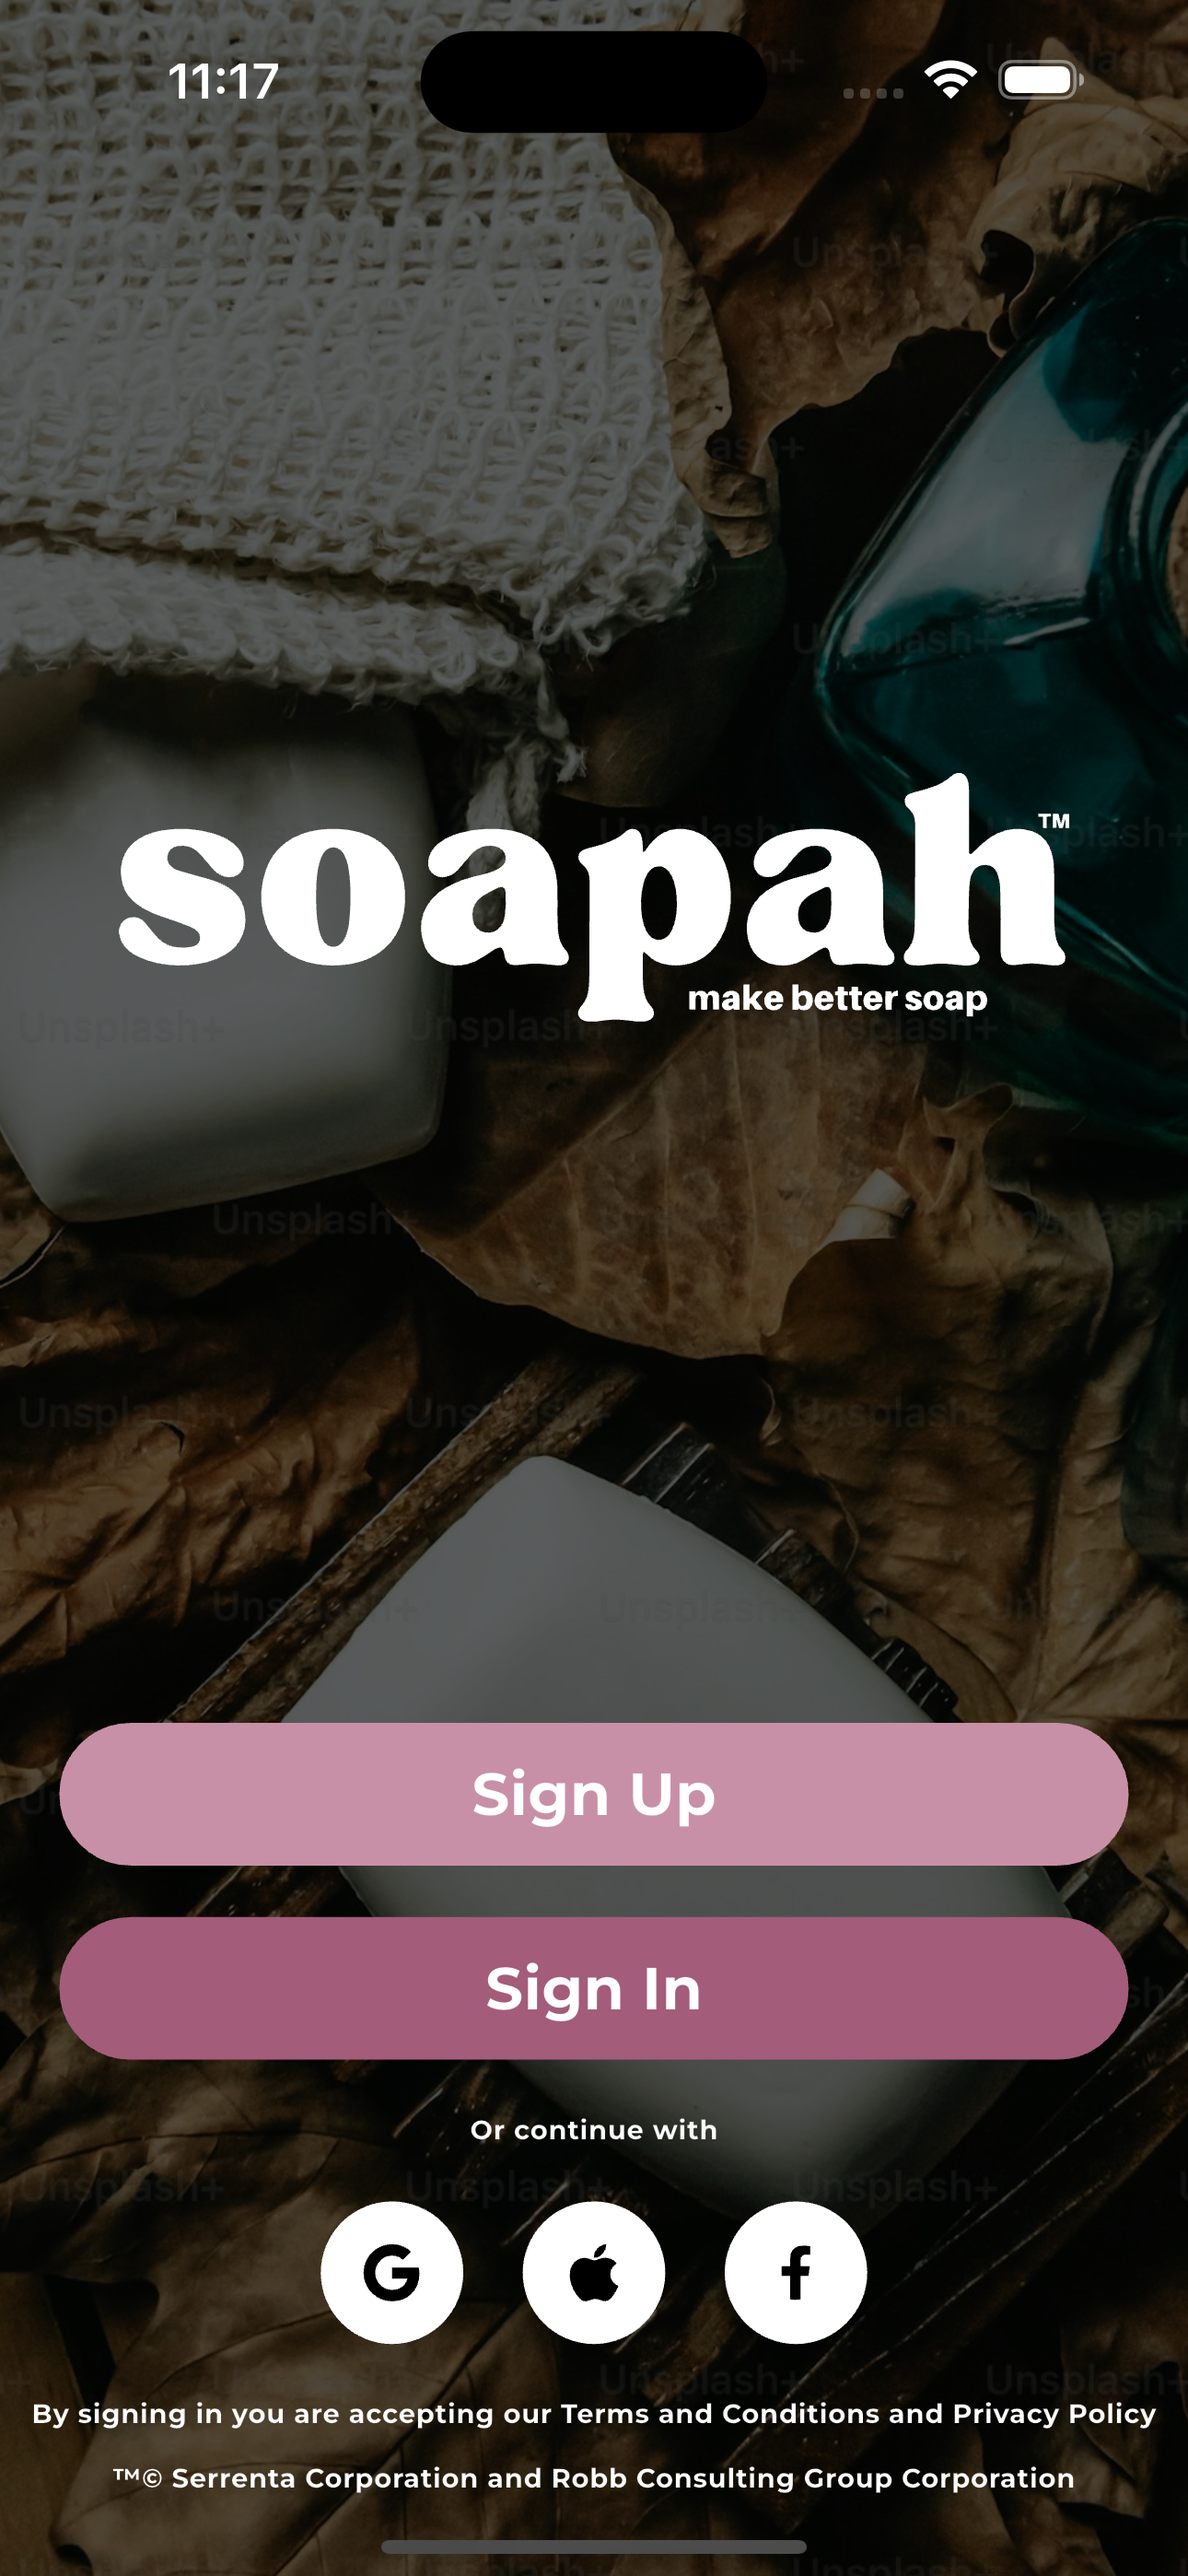
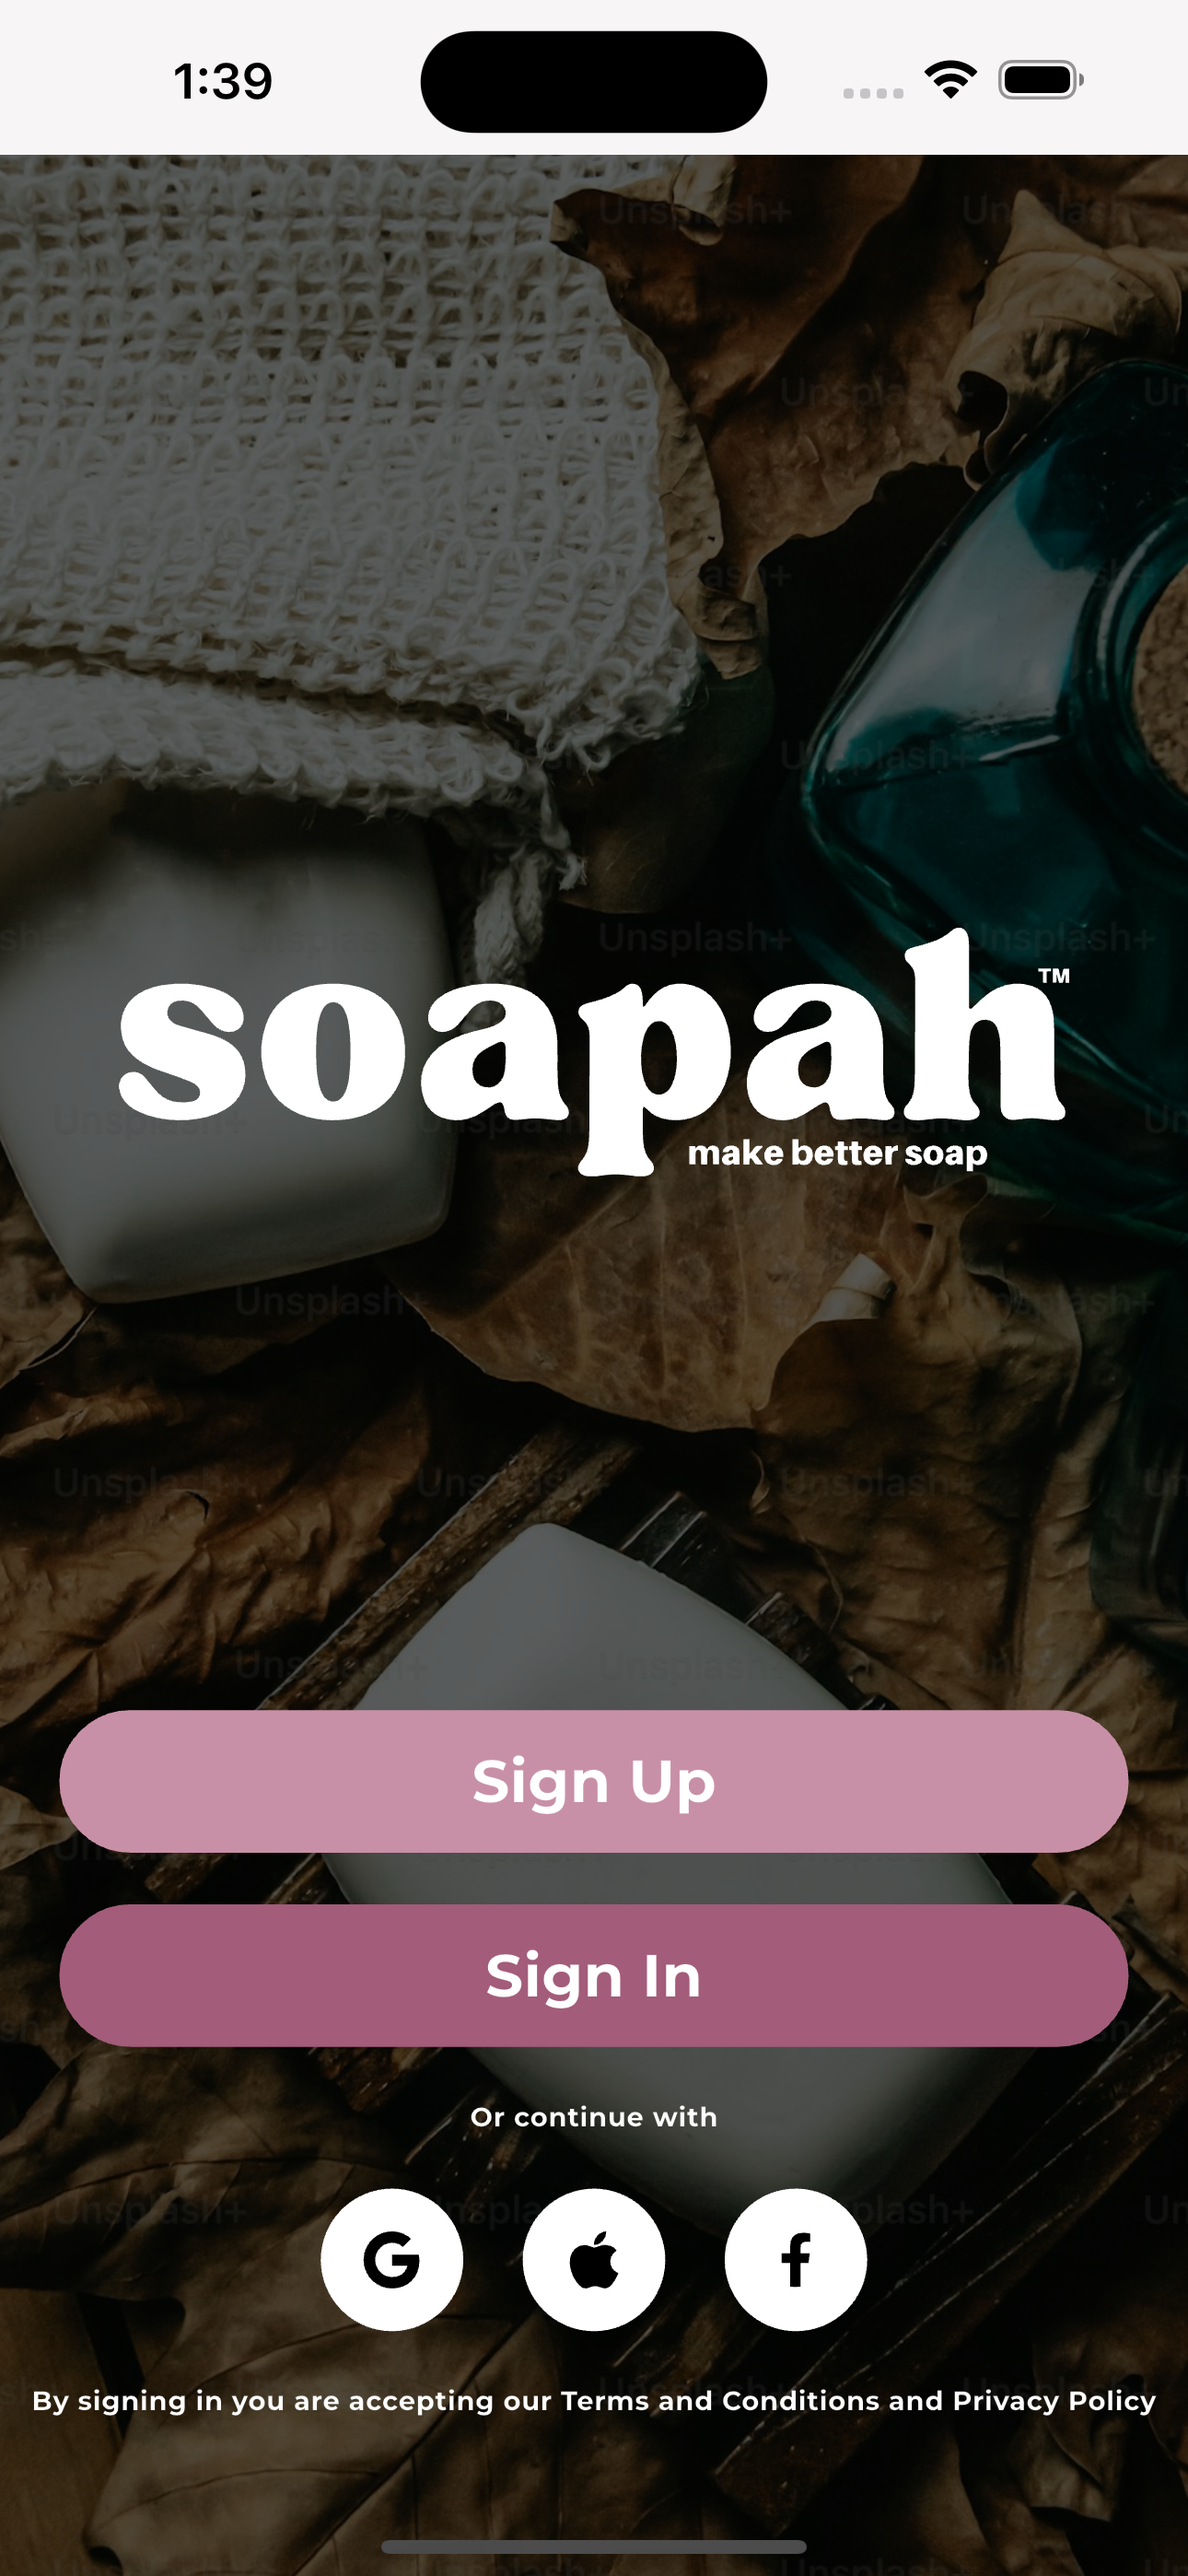
modify auth pages

diff --git a/lib/pages/signup/sections/signup_footer.dart b/lib/pages/signup/sections/signup_footer.dart
@@ -3,8 +3,6 @@ import 'package:go_router/go_router.dart';
 import 'package:soapah/router/app_routes.dart';
 import 'package:soapah/utils/size_utils.dart';
 
-import '../../../theme/custom_text_theme.dart';
-
 class SignupFooter extends StatelessWidget {
   const SignupFooter({super.key});
 
@@ -32,11 +30,6 @@ class SignupFooter extends StatelessWidget {
           ),
         ),
         SizedBox(height: 6.h),
-        Text(
-          '™© Serrenta Corporation and Robb Consulting Group Corporation',
-          style: CustomTextStyles.montserratSmallBlack900,
-        ),
-        SizedBox(height: 2.h),
       ],
     );
   }

diff --git a/lib/pages/login/sections/login_footer.dart b/lib/pages/login/sections/login_footer.dart
@@ -3,8 +3,6 @@ import 'package:go_router/go_router.dart';
 import 'package:soapah/router/app_routes.dart';
 import 'package:soapah/utils/size_utils.dart';
 
-import '../../../theme/custom_text_theme.dart';
-
 class LoginFooter extends StatelessWidget {
   const LoginFooter({super.key});
 
@@ -32,10 +30,6 @@ class LoginFooter extends StatelessWidget {
           ),
         ),
         SizedBox(height: 6.h),
-        Text(
-          '™© Serrenta Corporation and Robb Consulting Group Corporation',
-          style: CustomTextStyles.montserratSmallBlack900,
-        ),
       ],
     );
   }

diff --git a/lib/pages/welcome/welcome_page.dart b/lib/pages/welcome/welcome_page.dart
@@ -101,12 +101,7 @@ class WelcomePage extends StatelessWidget {
                 'By signing in you are accepting our Terms and Conditions and Privacy Policy',
                 style: CustomTextStyles.montserratSmallWhite900,
               ),
-              SizedBox(height: 1.h),
-              Text(
-                '™© Serrenta Corporation and Robb Consulting Group Corporation',
-                style: CustomTextStyles.montserratSmallWhite900,
-              ),
-              SizedBox(height: 3.h),
+              SizedBox(height: 6.h),
             ],
           ),
         ],
